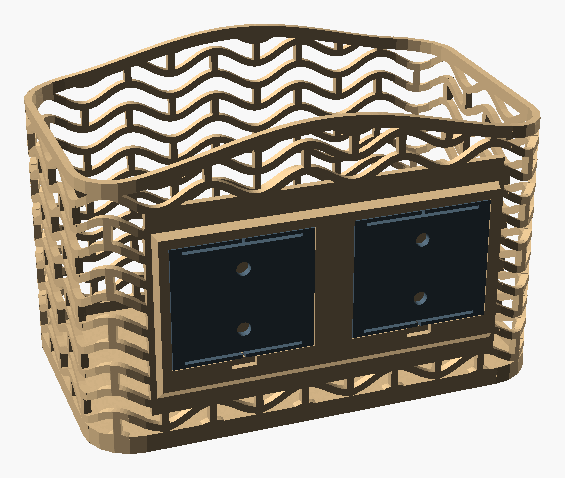
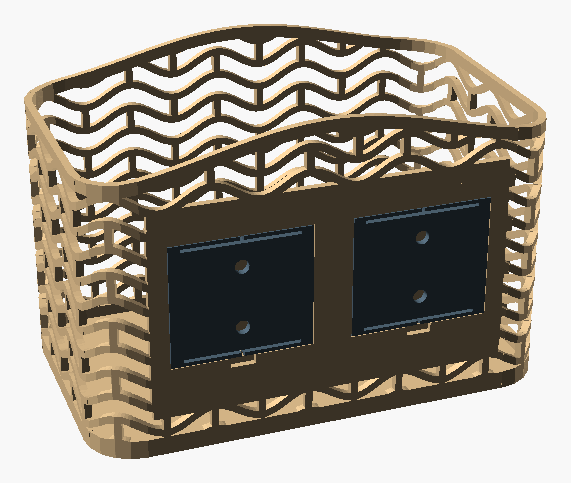
Pictures re-rendered for the flush mounting zone; earbuds: cable opening that collides with the mount is left out with a warning
Claude-Session: https://claude.ai/code/session_01BryyDwfM7ihiyXXZZbYjqV

diff --git a/projects/custombox/README.md b/projects/custombox/README.md
@@ -1,6 +1,6 @@
 # Custom box
 
-<table><tr><td align="center"><img src="images/custombox.png" width="250" alt="default: honeycomb, pattern runs round the corners"><br><sub>default: honeycomb, pattern runs round the corners</sub></td><td align="center"><img src="images/custombox_sloped.png" width="250" alt="sloped rim, triangular lattice"><br><sub>sloped rim, triangular lattice</sub></td><td align="center"><img src="images/custombox_organic.png" width="250" alt="flowing outline, Voronoi, wavy rim"><br><sub>flowing outline, Voronoi, wavy rim</sub></td></tr><tr><td align="center"><img src="images/custombox_lid.png" width="250" alt="square, solid corners, inset lid with knob"><br><sub>square, solid corners, inset lid with knob</sub></td><td align="center"><img src="images/custombox_woven.png" width="250" alt="woven walls with solid corners"><br><sub>woven walls with solid corners</sub></td><td align="center"><img src="images/custombox_fin.png" width="250" alt="fin under the floor (sofa caddy)"><br><sub>fin under the floor (sofa caddy)</sub></td></tr><tr><td align="center"><img src="images/custombox_mount.png" width="250" alt="two wall plates in solid zones of the back wall; wave pattern with ties"><br><sub>two wall plates in solid zones of the back wall; wave pattern with ties</sub></td></tr></table>
+<table><tr><td align="center"><img src="images/custombox.png" width="250" alt="default: honeycomb, pattern runs round the corners"><br><sub>default: honeycomb, pattern runs round the corners</sub></td><td align="center"><img src="images/custombox_sloped.png" width="250" alt="sloped rim, triangular lattice"><br><sub>sloped rim, triangular lattice</sub></td><td align="center"><img src="images/custombox_organic.png" width="250" alt="flowing outline, Voronoi, wavy rim"><br><sub>flowing outline, Voronoi, wavy rim</sub></td></tr><tr><td align="center"><img src="images/custombox_lid.png" width="250" alt="square, solid corners, inset lid with knob"><br><sub>square, solid corners, inset lid with knob</sub></td><td align="center"><img src="images/custombox_woven.png" width="250" alt="woven walls with solid corners"><br><sub>woven walls with solid corners</sub></td><td align="center"><img src="images/custombox_fin.png" width="250" alt="fin under the floor (sofa caddy)"><br><sub>fin under the floor (sofa caddy)</sub></td></tr><tr><td align="center"><img src="images/custombox_mount.png" width="250" alt="two wall plates in solid zones of the back wall; wave pattern with ties"><br><sub>two wall plates, flush in solid zones of the back wall; wave pattern with ties</sub></td><td align="center"><img src="images/custombox_mount_inside.png" width="250" alt="inside: the pad that carries the socket depth"><br><sub>inside: the sloped pad that carries the socket depth</sub></td></tr></table>
 
 **[Open the online configurator](https://tamaygz.github.io/tg_3d_modelling/custombox)** · or open `custombox_configurator.html` from this folder · [model](custombox.scad) · [print files](custombox_print) · [design log](custombox_log.md)
 
